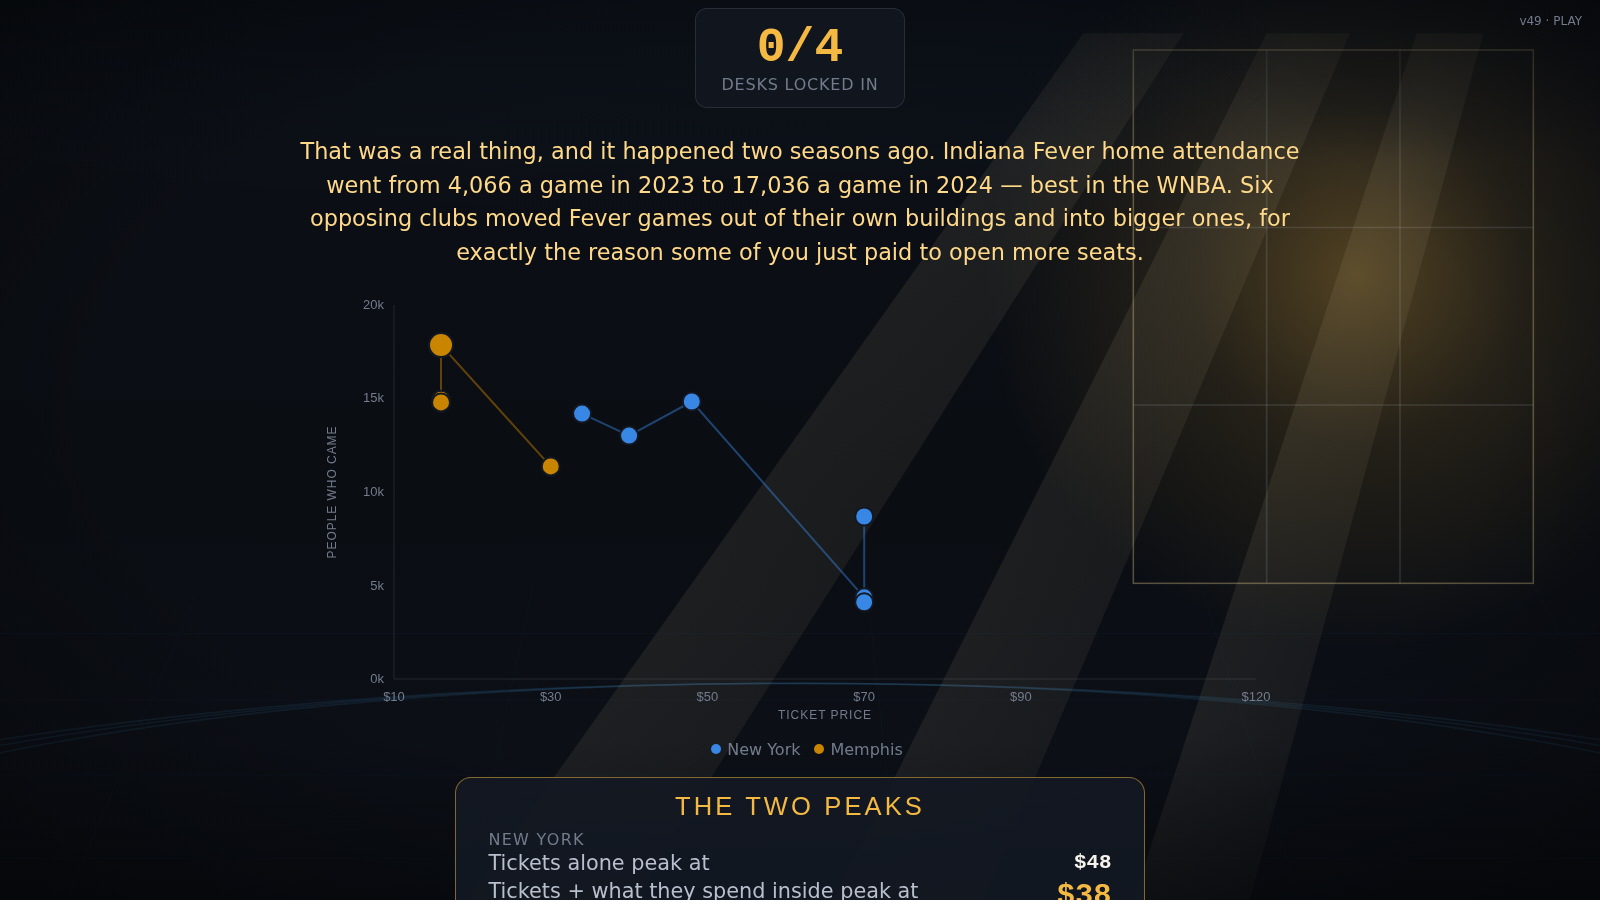
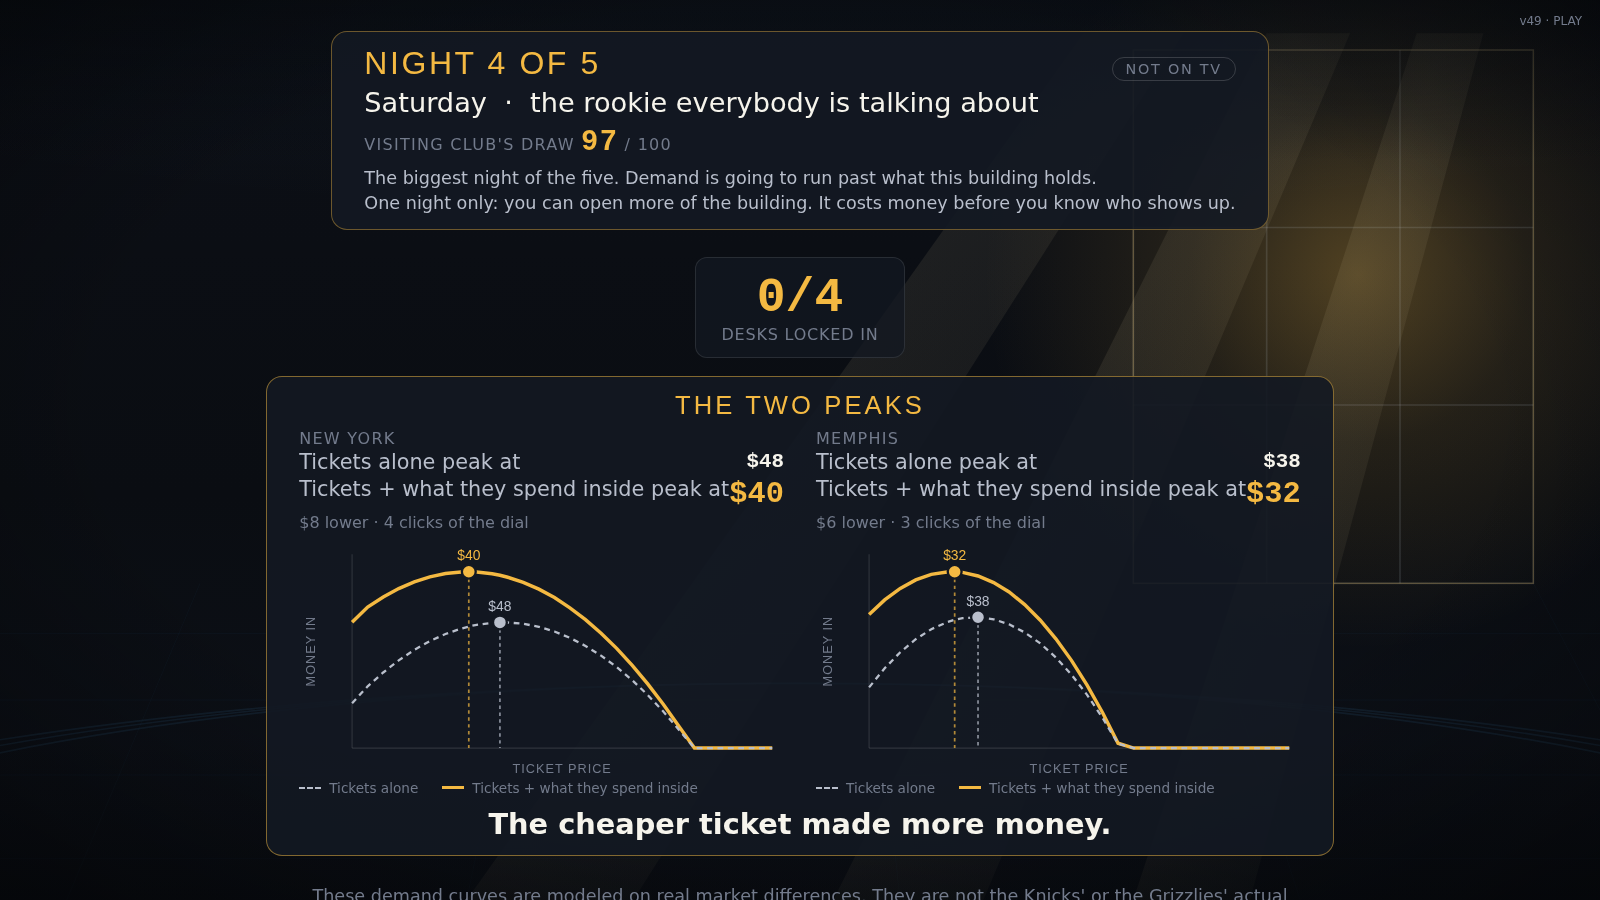
boss(m2): L1 repair round 1 — all 9 charter items (misclick guard, SR facts, renewals 3-segment tent, honest N4 trap, unpooled class chart, Two Peaks money view, night-spend info)

diff --git a/runtime/src/client/board/index.html b/runtime/src/client/board/index.html
@@ -107,7 +107,7 @@
   .legend-sep { display: inline-block; width: 2vw; }
   .legend-shape { display: inline-flex; align-items: center; gap: .3vw; margin-left: 1.1vw; }
   /* Two Peaks money view (gate-l1-play): show the peaks, don't assert them. */
-  .fh-money-svg { width: 100%; max-width: 34vw; height: auto; display: block; margin-top: .6vh; }
+  .fh-money-svg { width: 100%; max-width: 32vw; height: auto; display: block; margin-top: .6vh; }
   .fh-money-key { display: flex; align-items: center; gap: .5vw; font-size: .85vw; color: var(--ink-muted); }
   .fh-money-swatch { display: inline-block; width: 22px; height: 0; border-top: 3px solid var(--accent-gold); margin-left: 1vw; }
   .fh-money-swatch.dash { border-top: 2px dashed var(--ink-secondary); margin-left: 0; }
@@ -124,9 +124,13 @@
   .fh-desk-chip { display: flex; align-items: center; gap: .5vw; background: rgba(19,24,34,0.75);
     border: 1px solid rgba(255,255,255,0.1); border-radius: 10px; padding: .5vh 1vw; font-size: 1vw; color: var(--ink-secondary); }
 
+  /* Two markets side by side: the money view added height to each, and the
+     projector is a fixed, non-scrolling surface. */
   .fh-peaks-board { background: rgba(19,24,34,0.9); border: 1px solid rgba(244,185,66,0.5); border-radius: 16px;
-    padding: 1.6vh 2vw; margin-top: 2vh; max-width: 74vw; }
-  .fh-peaks-title { font-family: var(--font-display); font-size: 1.6vw; letter-spacing: .12em; color: var(--accent-gold); }
+    padding: 1.6vh 2vw; margin-top: 2vh; max-width: 74vw;
+    display: grid; grid-template-columns: repeat(auto-fit, minmax(28vw, 1fr)); column-gap: 2vw; }
+  .fh-peaks-title { font-family: var(--font-display); font-size: 1.6vw; letter-spacing: .12em; color: var(--accent-gold); grid-column: 1 / -1; }
+  .fh-peaks-punch { grid-column: 1 / -1; }
   .fh-peaks-market { margin-top: 1vh; text-align: left; }
   .fh-peaks-club { font-size: 1vw; letter-spacing: .08em; text-transform: uppercase; color: var(--ink-muted); }
   .fh-peaks-line { display: flex; justify-content: space-between; font-size: 1.3vw; color: var(--ink-secondary); padding: .2vh 0; }

diff --git a/runtime/src/client/board/main.ts b/runtime/src/client/board/main.ts
@@ -821,7 +821,7 @@ function renderFullHouseBoard(view: Record<string, unknown>, mode: string): void
           <div class="kpi"><div class="num">${view["lockedCount"]}/${view["deskCount"]}</div><div class="lbl">Desks locked in</div></div>
         </div>
         ${view["shockCopy"] ? `<div class="synthesis-note" style="max-width:66vw; color:#ffd98a;">${escapeHtml(String(view["shockCopy"]))}</div>` : ""}
-        ${points.length > 0 ? `<div class="scatter-wrap" style="width:60vw;">${fhCurveSvg(points, ["new-york", "memphis"])}</div>${fhLegend(points)}` : ""}
+        ${points.length > 0 && peaks.length === 0 ? `<div class="scatter-wrap" style="width:60vw;">${fhCurveSvg(points, ["new-york", "memphis"])}</div>${fhLegend(points)}` : ""}
         ${peaks.length > 0 ? fhTwoPeaksPanel(peaks) : ""}
         <div class="synthesis-note" style="font-size:1.1vw;">${escapeHtml(honesty)}</div>`;
       return;
@@ -836,7 +836,9 @@ function renderFullHouseBoard(view: Record<string, unknown>, mode: string): void
       // lands, the curve gives up room rather than pushing anything off screen.
       const crowded = Boolean(view["twoPeaksReleased"]);
       const booksUp = Boolean(view["booksReleased"]);
-      const showCurve = points.length > 0 && !booksUp;
+      // The projector is fixed and non-scrolling: once the Two Peaks money view is up it
+      // owns the screen, and the class chart gives up its room rather than push it off.
+      const showCurve = points.length > 0 && !booksUp && !crowded;
       stage.innerHTML = `
         <div class="label">${booksUp ? "The Season, Market By Market" : `The Room's Own Curve · ${shown.length ? shown.join(" · ") : "waiting"}`}</div>
         ${showCurve ? `<div class="scatter-wrap${crowded ? " compact" : ""}">${fhCurveSvg(points, ["new-york", "memphis"])}</div>${fhLegend(points)}` : points.length === 0 ? `<div class="banner">Waiting for your teacher to put up the first night.</div>` : ""}
